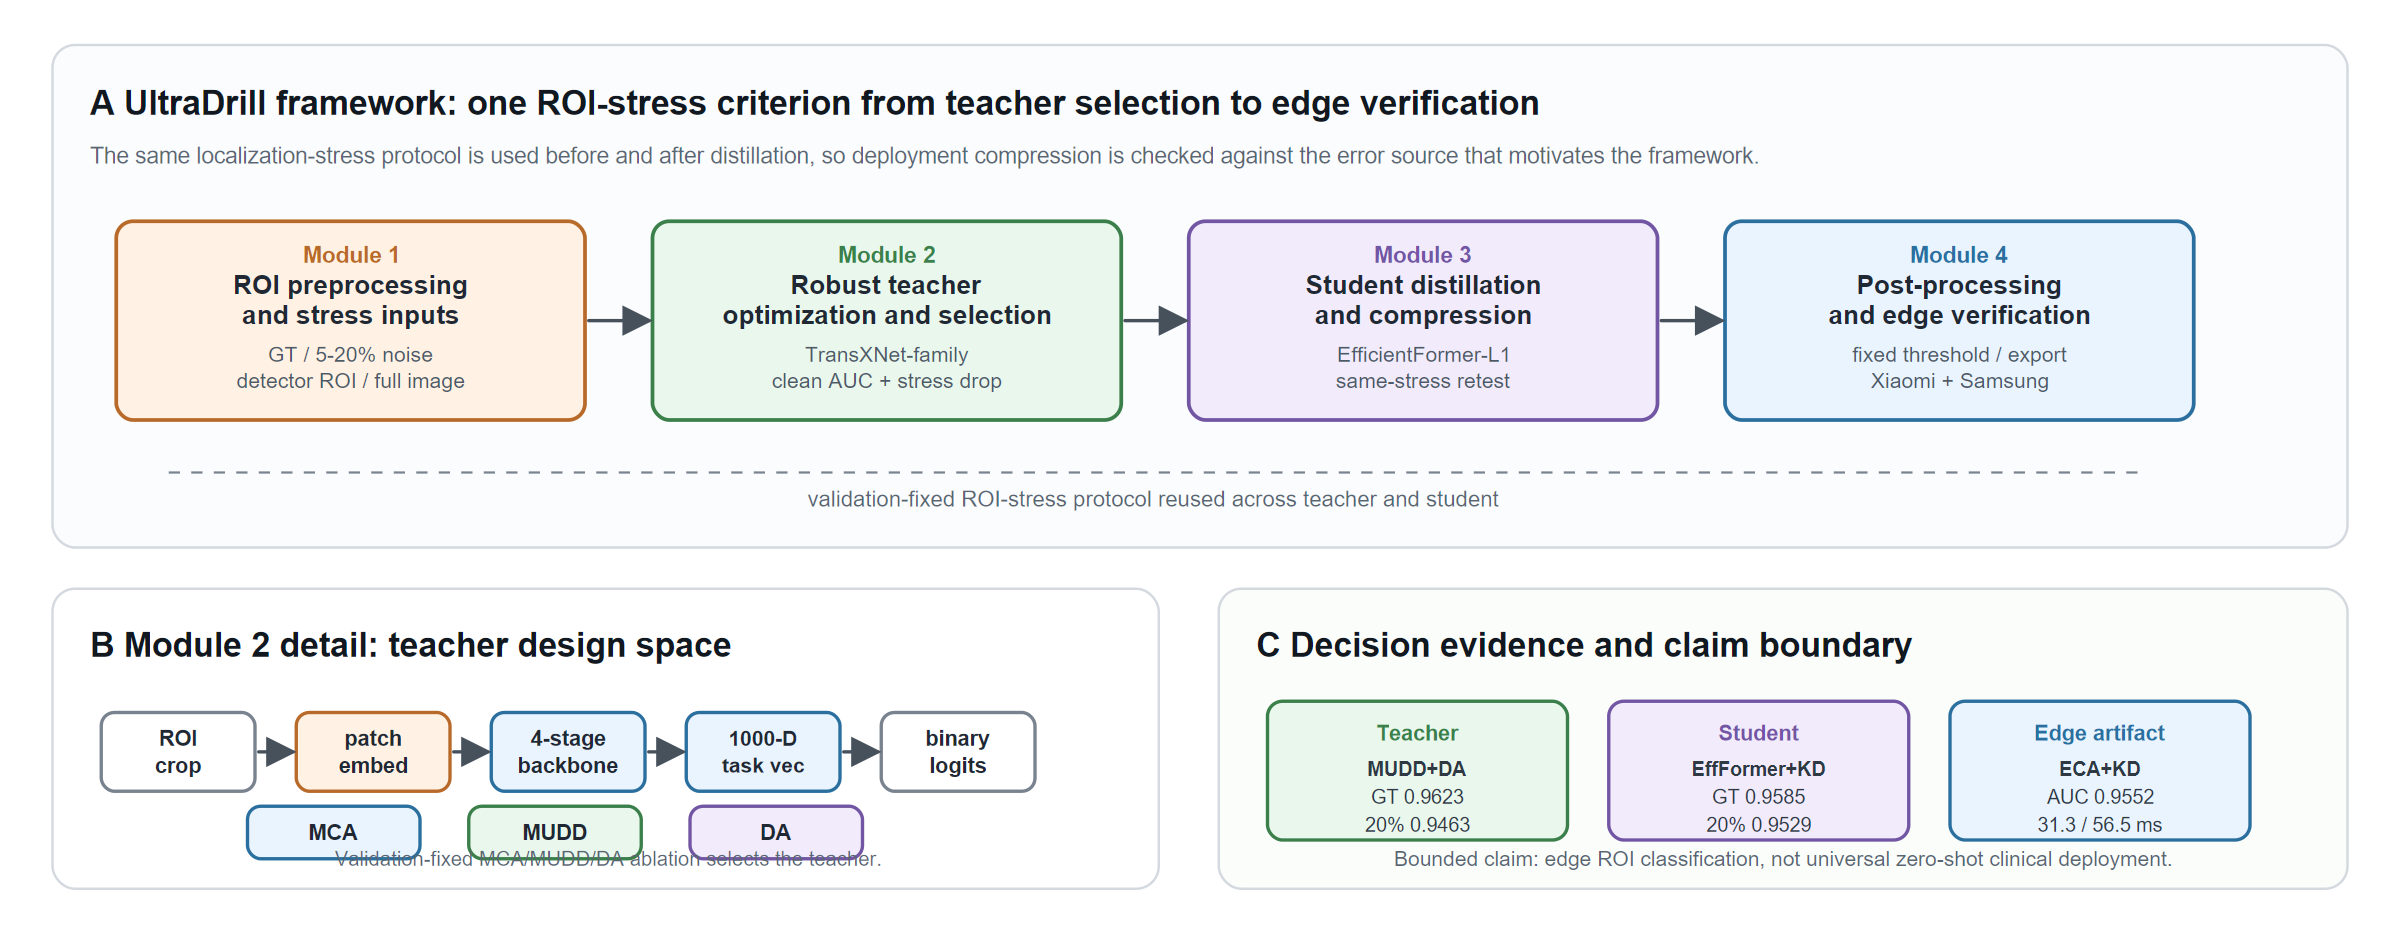
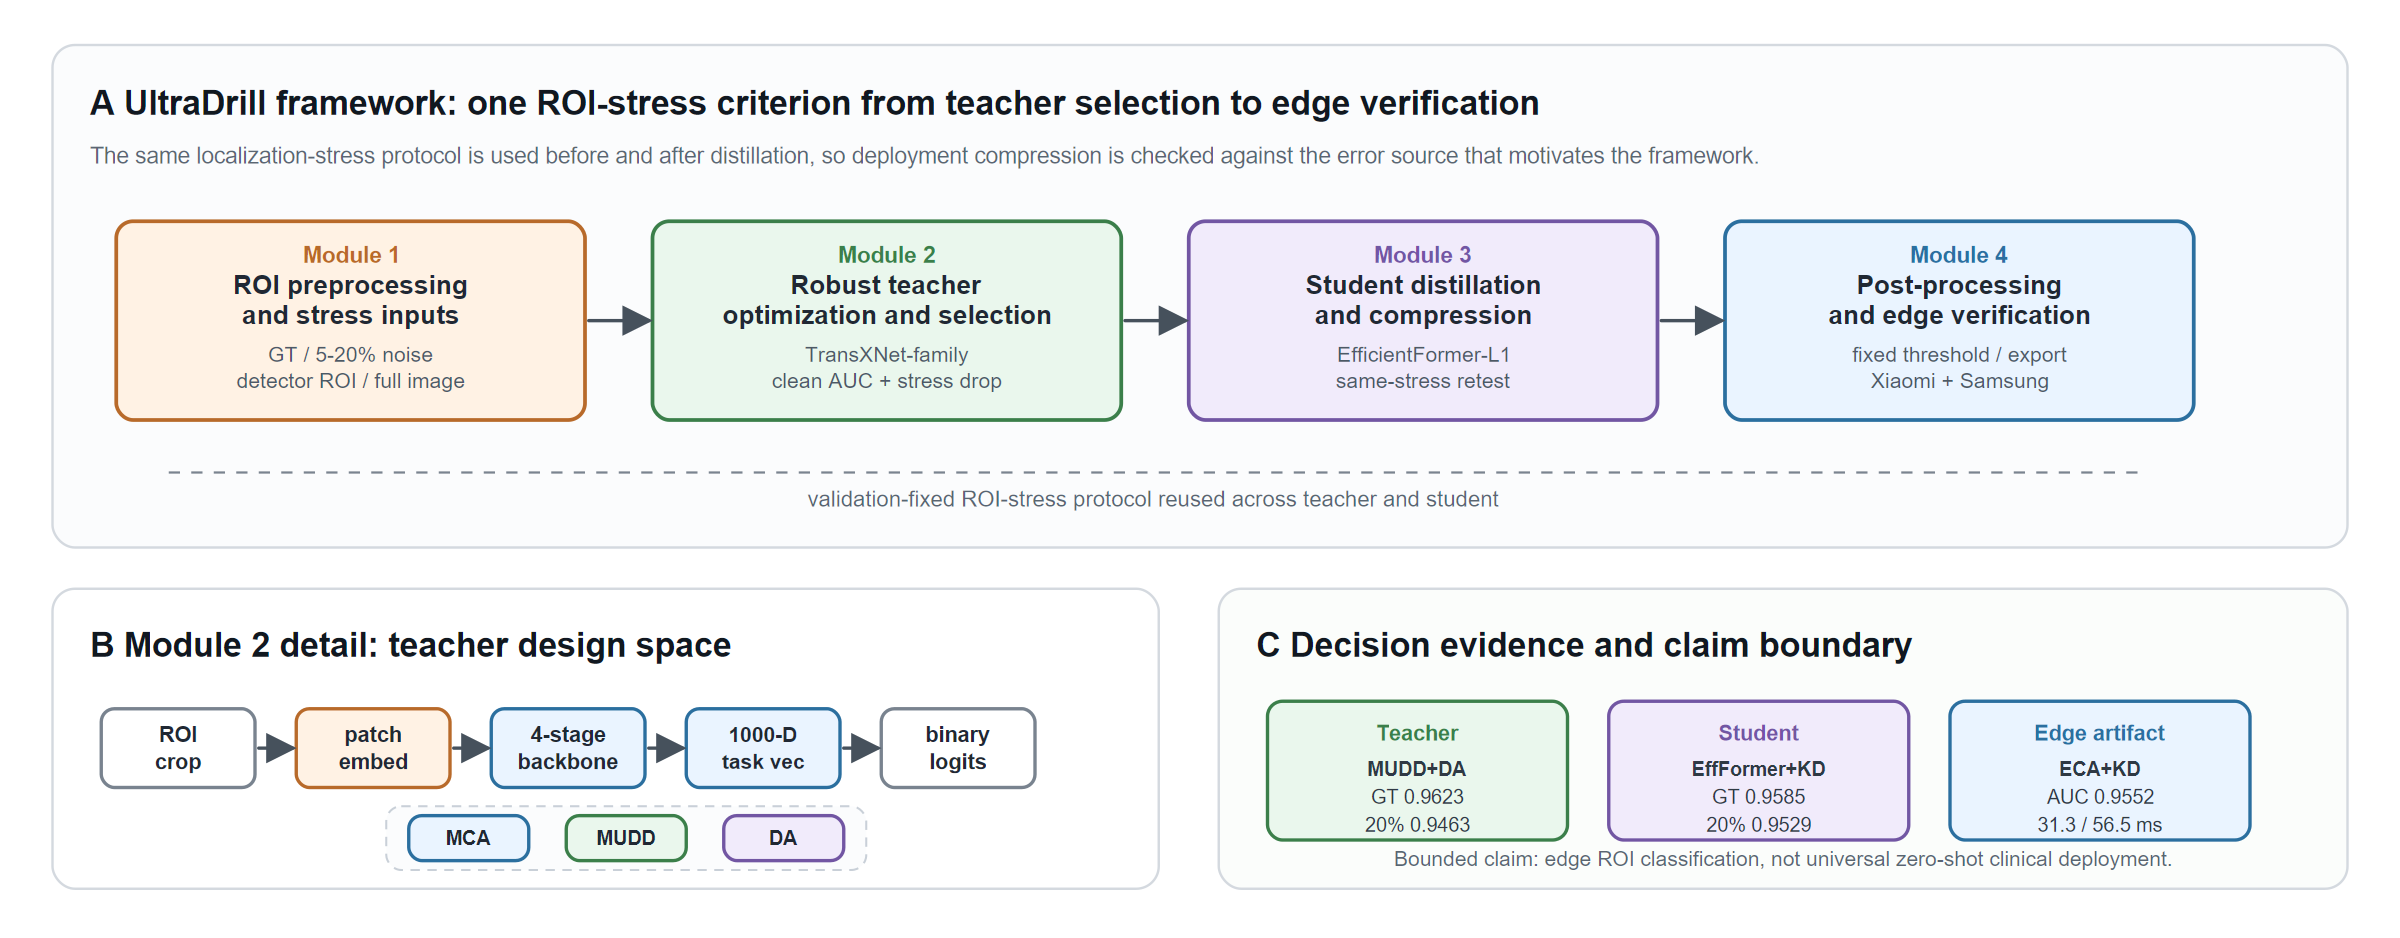
Polish UltraDrill Figure 2 layout

Changed region(s): [[0.0312, 0.742, 0.4375, 0.9275]]

diff --git a/tools/make_clean_submission_figures.py b/tools/make_clean_submission_figures.py
@@ -158,7 +158,7 @@ def architecture() -> None:
     # B. Module 2 detail is smaller than the framework overview.
     rect(28, 314, 590, 160, fill="#ffffff", stroke="#d4d9df", sw=1.3, rx=12)
     title(48, 344, "B", "Module 2 detail: teacher design space")
-    detail_y = 380
+    detail_y = 378
     detail_boxes = [
         (54, detail_y, 82, 42, ["ROI", "crop"], "#ffffff", "#79838f", 11.5, 600),
         (158, detail_y, 82, 42, ["patch", "embed"], orange_fill, orange, 11.5, 600),
@@ -170,10 +170,10 @@ def architecture() -> None:
         box(bx, by0, bw, bh, label, fill=fill, stroke=stroke, size=size, weight=weight)
     for x1, x2 in [(138, 156), (242, 260), (346, 364), (450, 468)]:
         line(x1, detail_y + 21, x2, detail_y + 21)
-    box(132, 430, 92, 28, "MCA", fill=blue_fill, stroke=blue, size=11.5, weight=700)
-    box(250, 430, 92, 28, "MUDD", fill=green_fill, stroke=green, size=11.5, weight=700)
-    box(368, 430, 92, 28, "DA", fill=purple_fill, stroke=purple, size=11.5, weight=700)
-    text(324, 458, "Validation-fixed MCA/MUDD/DA ablation selects the teacher.", size=10.8, color="#596571")
+    add('<rect x="206" y="430" width="256" height="34" rx="8" fill="#fbfcfd" stroke="#c9d0d8" stroke-width="1.1" stroke-dasharray="5 4"/>')
+    box(218, 435, 64, 24, "MCA", fill=blue_fill, stroke=blue, size=10.5, weight=700)
+    box(302, 435, 64, 24, "MUDD", fill=green_fill, stroke=green, size=10.5, weight=700)
+    box(386, 435, 64, 24, "DA", fill=purple_fill, stroke=purple, size=10.5, weight=700)
 
     # C. Outputs and claim boundary.
     rect(650, 314, 602, 160, fill="#fbfdfb", stroke="#d4d9df", sw=1.3, rx=12)